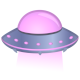
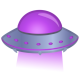
added more color for aliens, clean the load image function for alien

diff --git a/alien.py b/alien.py
@@ -34,23 +34,27 @@ class Alien(Sprite):
             return True
 
     def load_image(self):
-        """Load the right image depnded on the current level."""
-        image_color_dict = {
-            1: 'teal',
-            2: 'green',
-            3: 'purple',
-            4: 'orange'
-        }
-
         # Load the alien image and set its rect attritbute.
-        alien_color = image_color_dict.get(self.life, 'orange') # if level don't exist use orange
-        image_path = self._get_image_path(alien_color)
-        self.image = pygame.image.load(image_path).convert_alpha()
+        self.image = pygame.image.load(self._get_image_path()).convert_alpha()
         self.mask = pygame.mask.from_surface(self.image)
         self.rect = self.image.get_rect()
         self.rect.x = self.x
         self.rect.y = self.y
 
-    def _get_image_path(self, color):
-        image_file_name = color + '_alien_ship.png'
+    def _get_image_path(self):
+        """Load the right image depnded on the current level."""
+        image_color_dict = {
+            1: 'teal',
+            2: 'green',
+            3: 'purple',
+            4: 'blue',
+            5: 'grey',
+            6: 'orange',
+            7: 'yellow',
+            8: 'pink',
+            9: 'red',
+        }
+        alien_color = image_color_dict.get(
+            self.life, 'red')  # if level don't exist use red
+        image_file_name = alien_color + '_alien_ship.png'
         return os.path.join('images', image_file_name)

diff --git a/settings.py b/settings.py
@@ -16,7 +16,7 @@ class Settings:
         self.ship_limit = 3
 
         # Bullet settings
-        self.bullet_width = 300
+        self.bullet_width = 3000
         self.bullet_height = 15
         self.bullet_color = (224, 222, 58)
         self.bullets_allowed = 10
@@ -25,7 +25,7 @@ class Settings:
         self.fleet_drop_speed = 10
 
         # How quickly the game speeds up
-        self.speedup_scale = 1.1
+        self.speedup_scale = 1.2
 
         # How quickly the alien point values increase
         self.score_scale = 1.5
